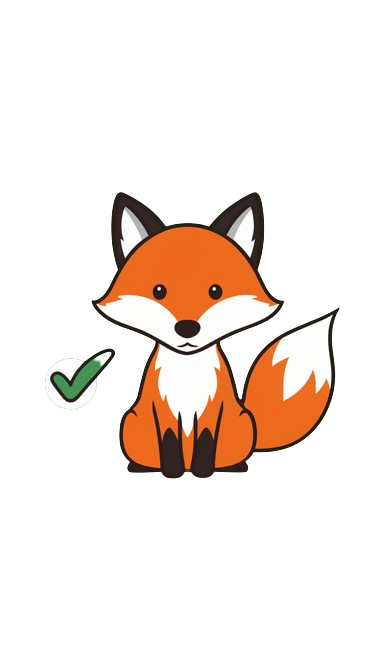
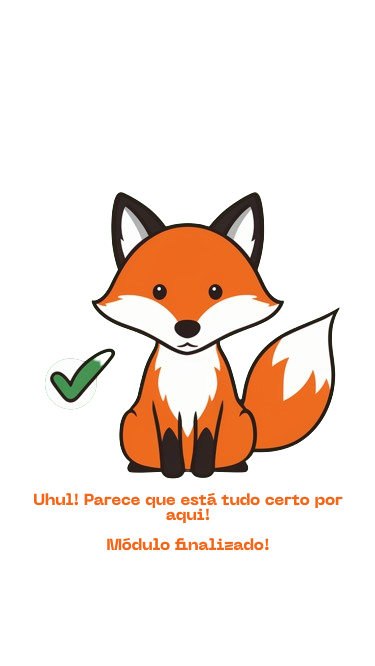
New logic to implement fox img, works

Changed region(s): [[0.088, 0.7207, 0.9093, 0.8408]]

diff --git a/screens/Exercicio1.js b/screens/Exercicio1.js
@@ -19,6 +19,7 @@ const Exercicio1 = () => {
     const [currentModal, setCurrentModal] = useState(null);
     const [shuffledOptions, setShuffledOptions] = useState(null);
     const [answeredCorrectly, setAnsweredCorrectly] = useState([]);
+    const [showCheckmark, setShowCheckmark] = useState(false);
 
     useEffect(() => {
         checkIfLoggedIn(); // Verifica se o usuário está logado ao montar a tela
@@ -48,6 +49,7 @@ const Exercicio1 = () => {
     useEffect(() => {
         setCurrentModal(1); // Define o estado currentModal como 1 ao montar o componente
         checkAnsweredQuestions(); // Verifica quantas questões foram respondidas corretamente ao entrar na tela
+        checkIfShowCheckmark(); // Verifica se a imagem deve ser exibida
     }, []);
 
     useEffect(() => {
@@ -87,6 +89,8 @@ const Exercicio1 = () => {
                 // Verifica se todas as perguntas foram respondidas corretamente
                 if (answeredCorrectly.length === 4) {
                     setAllQuestionsAnswered(true);
+                    setShowCheckmark(true);
+                    AsyncStorage.setItem(`${moduleName}_showCheckmark`, JSON.stringify(true));
                 }
             } catch (error) {
                 console.error('Erro ao armazenar o acerto:', error);
@@ -131,12 +135,23 @@ const Exercicio1 = () => {
         }
     };
 
+    const checkIfShowCheckmark = async () => {
+        try {
+            const showCheckmarkValue = await AsyncStorage.getItem(`${moduleName}_showCheckmark`);
+            if (showCheckmarkValue !== null) {
+                setShowCheckmark(JSON.parse(showCheckmarkValue));
+            }
+        } catch (error) {
+            console.error('Erro ao verificar se deve mostrar a marca de verificação:', error);
+        }
+    };
+
     const [allQuestionsAnswered, setAllQuestionsAnswered] = useState(false); //Controla o estado SE todas as 5 perguntas foram respondidas corretamente
 
     return (
         <SafeAreaView style={{ flex: 1 }}>
             <StatusBar backgroundColor="#67311C" />
-            <ScrollView contentContainerStyle={{ flexGrow: 1 }}>
+            <ScrollView contentContainerStyle={{ flexGrow: 1}}>
                 <ImageBackground source={require('../assets/background_aulas_invertido.png')} style={styles.backgroundImage}>
                     <View style={{ alignItems: 'center' }}>
                         <TituloExercicio nomeExercicio={modulo ? modulo.topico01.titulo : "Carregando..."} onPress={() => setCurrentModal(1)} />
@@ -164,65 +179,65 @@ const Exercicio1 = () => {
                             </View>
                         </Modal>
 
-                        {allQuestionsAnswered && (
-                        <View style={{ flex: 1, justifyContent: 'center', alignItems: 'center' }}>
-                        <Image source={require('../assets/raposacheckmark.png')} />
-                        </View>
+                        {showCheckmark && (
+                            <View style={{ flex: 1, justifyContent: 'center', alignItems: 'center' }}>
+                                <Image source={require('../assets/raposacheckmark.png')} />
+                            </View>
                         )}
 
-{!allQuestionsAnswered && (
-    <View style={{ flex: 1, alignItems: 'flex-start', top: '50%', gap: 15 }}>
-        {/* Quizzes */}
-        {modulo && Object.keys(modulo).map((key, index) => {
-            if (key.startsWith('pergunta')) {
-                const questionIndex = parseInt(key.slice(-2)) - 1;
-                const question = modulo[key];
-                // Verifica se a pergunta já foi respondida corretamente
-                if (answeredCorrectly.includes(questionIndex)) {
-                    return null; // Não exibe a pergunta
-                }
-                return (
-                    <View key={index}>
-                        {/* Adicione a condição allQuestionsAnswered aqui */}
                         {!allQuestionsAnswered && (
-                            <TituloQuiz nomeQuiz={question.enunciadoQuestao} onPress={() => setCurrentModal(questionIndex + 2)} />
+                            <View style={{ flex: 1, alignItems: 'flex-start', top: '50%', gap: 15 }}>
+                                {/* Quizzes */}
+                                {modulo && Object.keys(modulo).map((key, index) => {
+                                    if (key.startsWith('pergunta')) {
+                                        const questionIndex = parseInt(key.slice(-2)) - 1;
+                                        const question = modulo[key];
+                                        // Verifica se a pergunta já foi respondida corretamente
+                                        if (answeredCorrectly.includes(questionIndex)) {
+                                            return null; // Não exibe a pergunta
+                                        }
+                                        return (
+                                            <View key={index}>
+                                                {/* Adicione a condição allQuestionsAnswered aqui */}
+                                                {!allQuestionsAnswered && (
+                                                    <TituloQuiz nomeQuiz={question.enunciadoQuestao} onPress={() => setCurrentModal(questionIndex + 2)} />
+                                                )}
+                                                {/* Adicione a condição allQuestionsAnswered aqui */}
+                                                {!allQuestionsAnswered && (
+                                                    <Modal isVisible={currentModal === questionIndex + 2}>
+                                                        <View style={{ flex: 1, alignItems: 'center', backgroundColor: 'white', borderColor: 'white', borderRadius: 15 }}>
+                                                            <TituloAula nomeAula={question.enunciadoQuestao} />
+                                                            <Image source={require('../assets/foxCA7745.png')} style={{ resizeMode: 'contain', height: 100 }} />
+                                                            <View style={styles.definicoes}>
+                                                                <Text style={{ fontSize: 18 }}>{`A: ${shuffledOptions ? shuffledOptions[0] : ''}`}</Text>
+                                                                <Text style={{ fontSize: 18 }}>{`B: ${shuffledOptions ? shuffledOptions[1] : ''}`}</Text>
+                                                                <Text style={{ fontSize: 18 }}>{`C: ${shuffledOptions ? shuffledOptions[2] : ''}`}</Text>
+                                                                <Text style={{ fontSize: 18 }}>{`D: ${shuffledOptions ? shuffledOptions[3] : ''}`}</Text>
+                                                            </View>
+                                                            <Picker
+                                                                selectedValue={selectedOption}
+                                                                onValueChange={(itemValue, itemIndex) => setSelectedOption(itemValue)} style={styles.pickerStyles}>
+                                                                <Picker.Item label="Opção A" value={shuffledOptions ? shuffledOptions[0] : ''} />
+                                                                <Picker.Item label="Opção B" value={shuffledOptions ? shuffledOptions[1] : ''} />
+                                                                <Picker.Item label="Opção C" value={shuffledOptions ? shuffledOptions[2] : ''} />
+                                                                <Picker.Item label="Opção D" value={shuffledOptions ? shuffledOptions[3] : ''} />
+                                                            </Picker>
+                                                            <TouchableOpacity style={styles.submitButton} onPress={() => handleSubmit(questionIndex)}>
+                                                                <Text style={{ color: 'white', fontSize: 18, fontWeight: 'bold' }}>Submeter</Text>
+                                                            </TouchableOpacity>
+                                                            <TouchableOpacity onPress={closeModal} style={styles.closeButton}>
+                                                                <Text style={{ color: 'white', fontSize: 18, fontWeight: 'bold' }}>Voltar</Text>
+                                                            </TouchableOpacity>
+                                                        </View>
+                                                    </Modal>
+                                                )}
+                                            </View>
+                                        );
+                                    }
+                                    return null;
+                                })}
+                            </View>
                         )}
-                        {/* Adicione a condição allQuestionsAnswered aqui */}
-                        {!allQuestionsAnswered && (
-                            <Modal isVisible={currentModal === questionIndex + 2}>
-                                <View style={{ flex: 1, alignItems: 'center', backgroundColor: 'white', borderColor: 'white', borderRadius: 15 }}>
-                                    <TituloAula nomeAula={question.enunciadoQuestao} />
-                                    <Image source={require('../assets/foxCA7745.png')} style={{ resizeMode: 'contain', height: 100 }} />
-                                    <View style={styles.definicoes}>
-                                        <Text style={{ fontSize: 18 }}>{`A: ${shuffledOptions ? shuffledOptions[0] : ''}`}</Text>
-                                        <Text style={{ fontSize: 18 }}>{`B: ${shuffledOptions ? shuffledOptions[1] : ''}`}</Text>
-                                        <Text style={{ fontSize: 18 }}>{`C: ${shuffledOptions ? shuffledOptions[2] : ''}`}</Text>
-                                        <Text style={{ fontSize: 18 }}>{`D: ${shuffledOptions ? shuffledOptions[3] : ''}`}</Text>
-                                    </View>
-                                    <Picker
-                                        selectedValue={selectedOption}
-                                        onValueChange={(itemValue, itemIndex) => setSelectedOption(itemValue)} style={styles.pickerStyles}>
-                                        <Picker.Item label="Opção A" value={shuffledOptions ? shuffledOptions[0] : ''} />
-                                        <Picker.Item label="Opção B" value={shuffledOptions ? shuffledOptions[1] : ''} />
-                                        <Picker.Item label="Opção C" value={shuffledOptions ? shuffledOptions[2] : ''} />
-                                        <Picker.Item label="Opção D" value={shuffledOptions ? shuffledOptions[3] : ''} />
-                                    </Picker>
-                                    <TouchableOpacity style={styles.submitButton} onPress={() => handleSubmit(questionIndex)}>
-                                        <Text style={{ color: 'white', fontSize: 18, fontWeight: 'bold' }}>Submeter</Text>
-                                    </TouchableOpacity>
-                                    <TouchableOpacity onPress={closeModal} style={styles.closeButton}>
-                                        <Text style={{ color: 'white', fontSize: 18, fontWeight: 'bold' }}>Voltar</Text>
-                                    </TouchableOpacity>
-                                </View>
-                            </Modal>
-                        )}
-                    </View>
-                );
-            }
-            return null;
-        })}
-    </View>
-)}
 
                     </View>
                 </ImageBackground>

diff --git a/screens/Login.js b/screens/Login.js
@@ -13,39 +13,38 @@ export function Login() {
     const [password, setPassword] = useState('');
     const [isPasswordShown, setIsPasswordShown] = useState(true);
   
-    const login = async () => {
-        try {
-            const userCredential = await signInWithEmailAndPassword(auth, email, password);
-            const user = userCredential.user;
+    const login = async () => {}
+    //     try {
+    //         const userCredential = await signInWithEmailAndPassword(auth, email, password);
+    //         const user = userCredential.user;
     
-            if (user.emailVerified) {
-                // Salvar estado de login do usuário
-                await AsyncStorage.setItem('userToken', user.email);
+    //         if (user.emailVerified) {
+    //             // Salvar estado de login do usuário
+    //             await AsyncStorage.setItem('userToken', user.email);
                 
-                // Verificar se há um nome de usuário associado a este email
-                const userName = await AsyncStorage.getItem(`userName_${user.email}`);
-                //console.log('userName:', userName); // Adiciona um log para verificar o valor de userName
+    //             // Verificar se há um nome de usuário associado a este email
+    //             const userName = await AsyncStorage.getItem(`userName_${user.email}`);
+    //             //console.log('userName:', userName); // Adiciona um log para verificar o valor de userName
     
-                if (userName && userName.trim() !== '') {
-                    // Se houver, navegue para a HomePage
-                    //console.log('Redirecionando para HomePage');
-                    navigation.navigate('HomePage');
-                } else {
-                    // Se não houver, navegue para a tela de Perfil para que o usuário possa inserir seu nome
-                    console.log('Redirecionando para Perfil');
-                    navigation.navigate('Perfil');
-                }
-            } else {
-                Alert.alert('Erro', 'Por favor, verifique seu e-mail para fazer login.');
-            }
-        } catch (error) {
-            Alert.alert('Error', error.message);
-        }
-    }
+    //             if (userName && userName.trim() !== '') {
+    //                 // Se houver, navegue para a HomePage
+    //                 //console.log('Redirecionando para HomePage');
+    //                 navigation.navigate('HomePage');
+    //             } else {
+    //                 // Se não houver, navegue para a tela de Perfil para que o usuário possa inserir seu nome
+    //                 console.log('Redirecionando para Perfil');
+    //                 navigation.navigate('Perfil');
+    //             }
+    //         } else {
+    //             Alert.alert('Erro', 'Por favor, verifique seu e-mail para fazer login.');
+    //         }
+    //     } catch (error) {
+    //         Alert.alert('Error', error.message);
+    //     }
+    // }
 
     return (
         <SafeAreaView style={{ flex: 1 }}>
-           <StatusBar backgroundColor="#3E8B93" />
             <ScrollView contentContainerStyle={{ flexGrow: 1 }}>
                 <ImageBackground source={require('../assets/-4reGoE9SKm8B11_KmfIwQ.png')} style={styles.backgroundImage}>
                     <View style={styles.logoContainer}>

diff --git a/App.js b/App.js
@@ -12,8 +12,8 @@ export default function App() {
   return (
     <NavigationContainer>
     <Stack.Navigator
-    // initialRouteName='HomePage'
-    initialRouteName = 'Home'
+    initialRouteName='HomePage'
+    // initialRouteName = 'Home'
     >
       <Stack.Screen
         name="Home"

diff --git a/services/firebaseConnection.js b/services/firebaseConnection.js
@@ -13,5 +13,5 @@ const firebaseConfig = {
   };
 
   const app = initializeApp(firebaseConfig)
-  export const auth = getAuth(app)
+  // export const auth = getAuth(app)
   export const database = getDatabase(app)
